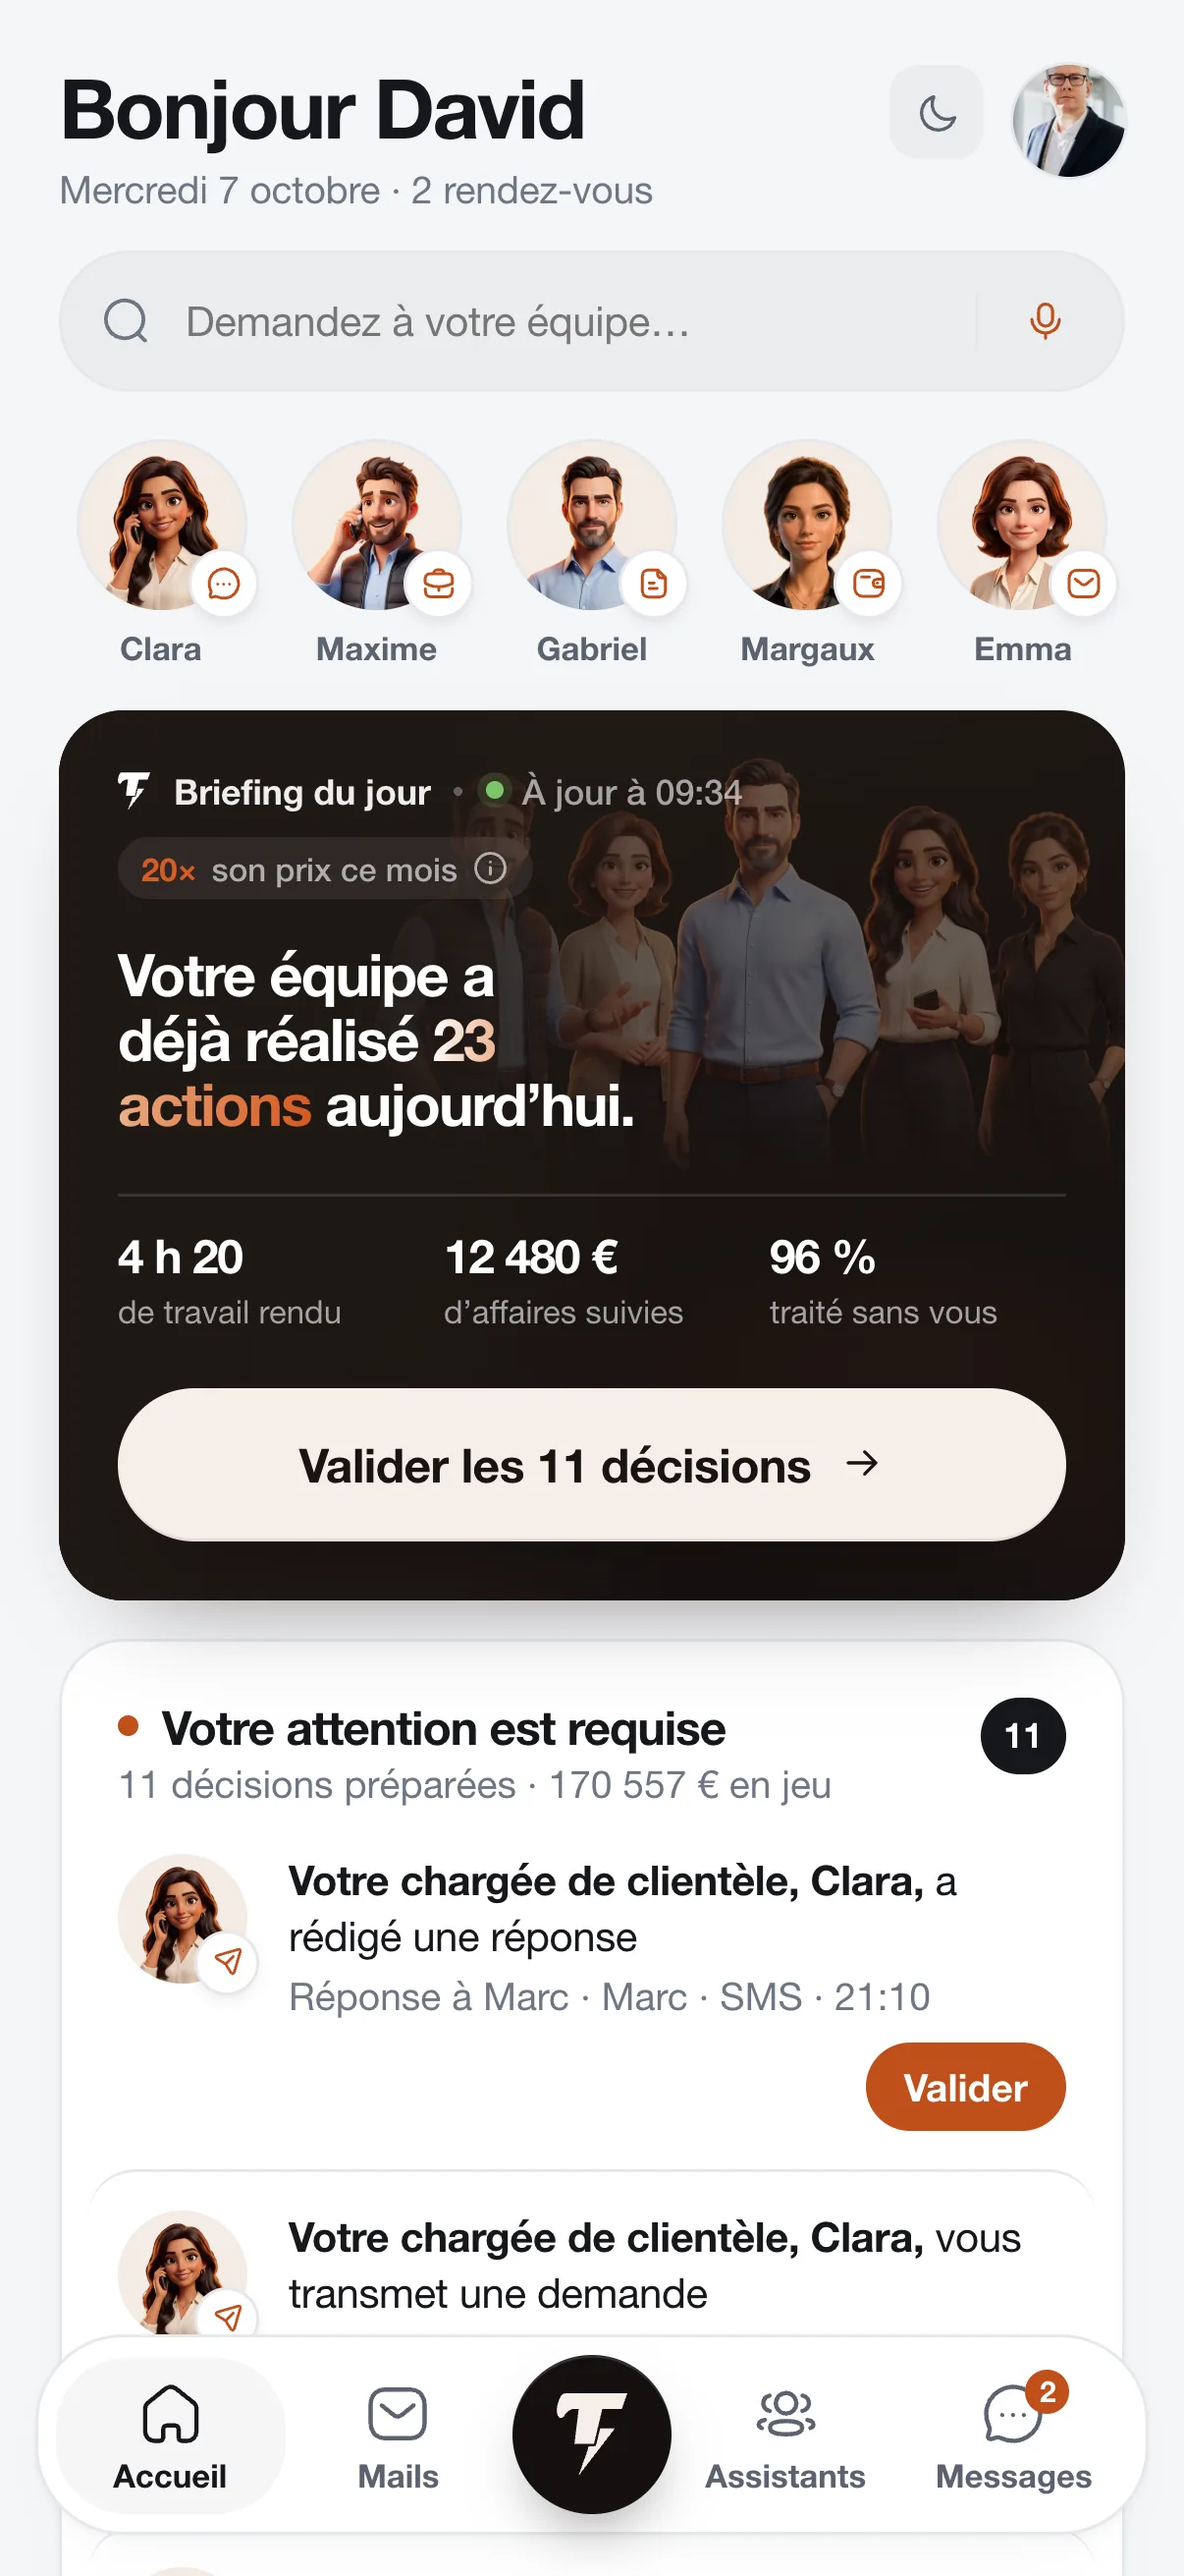
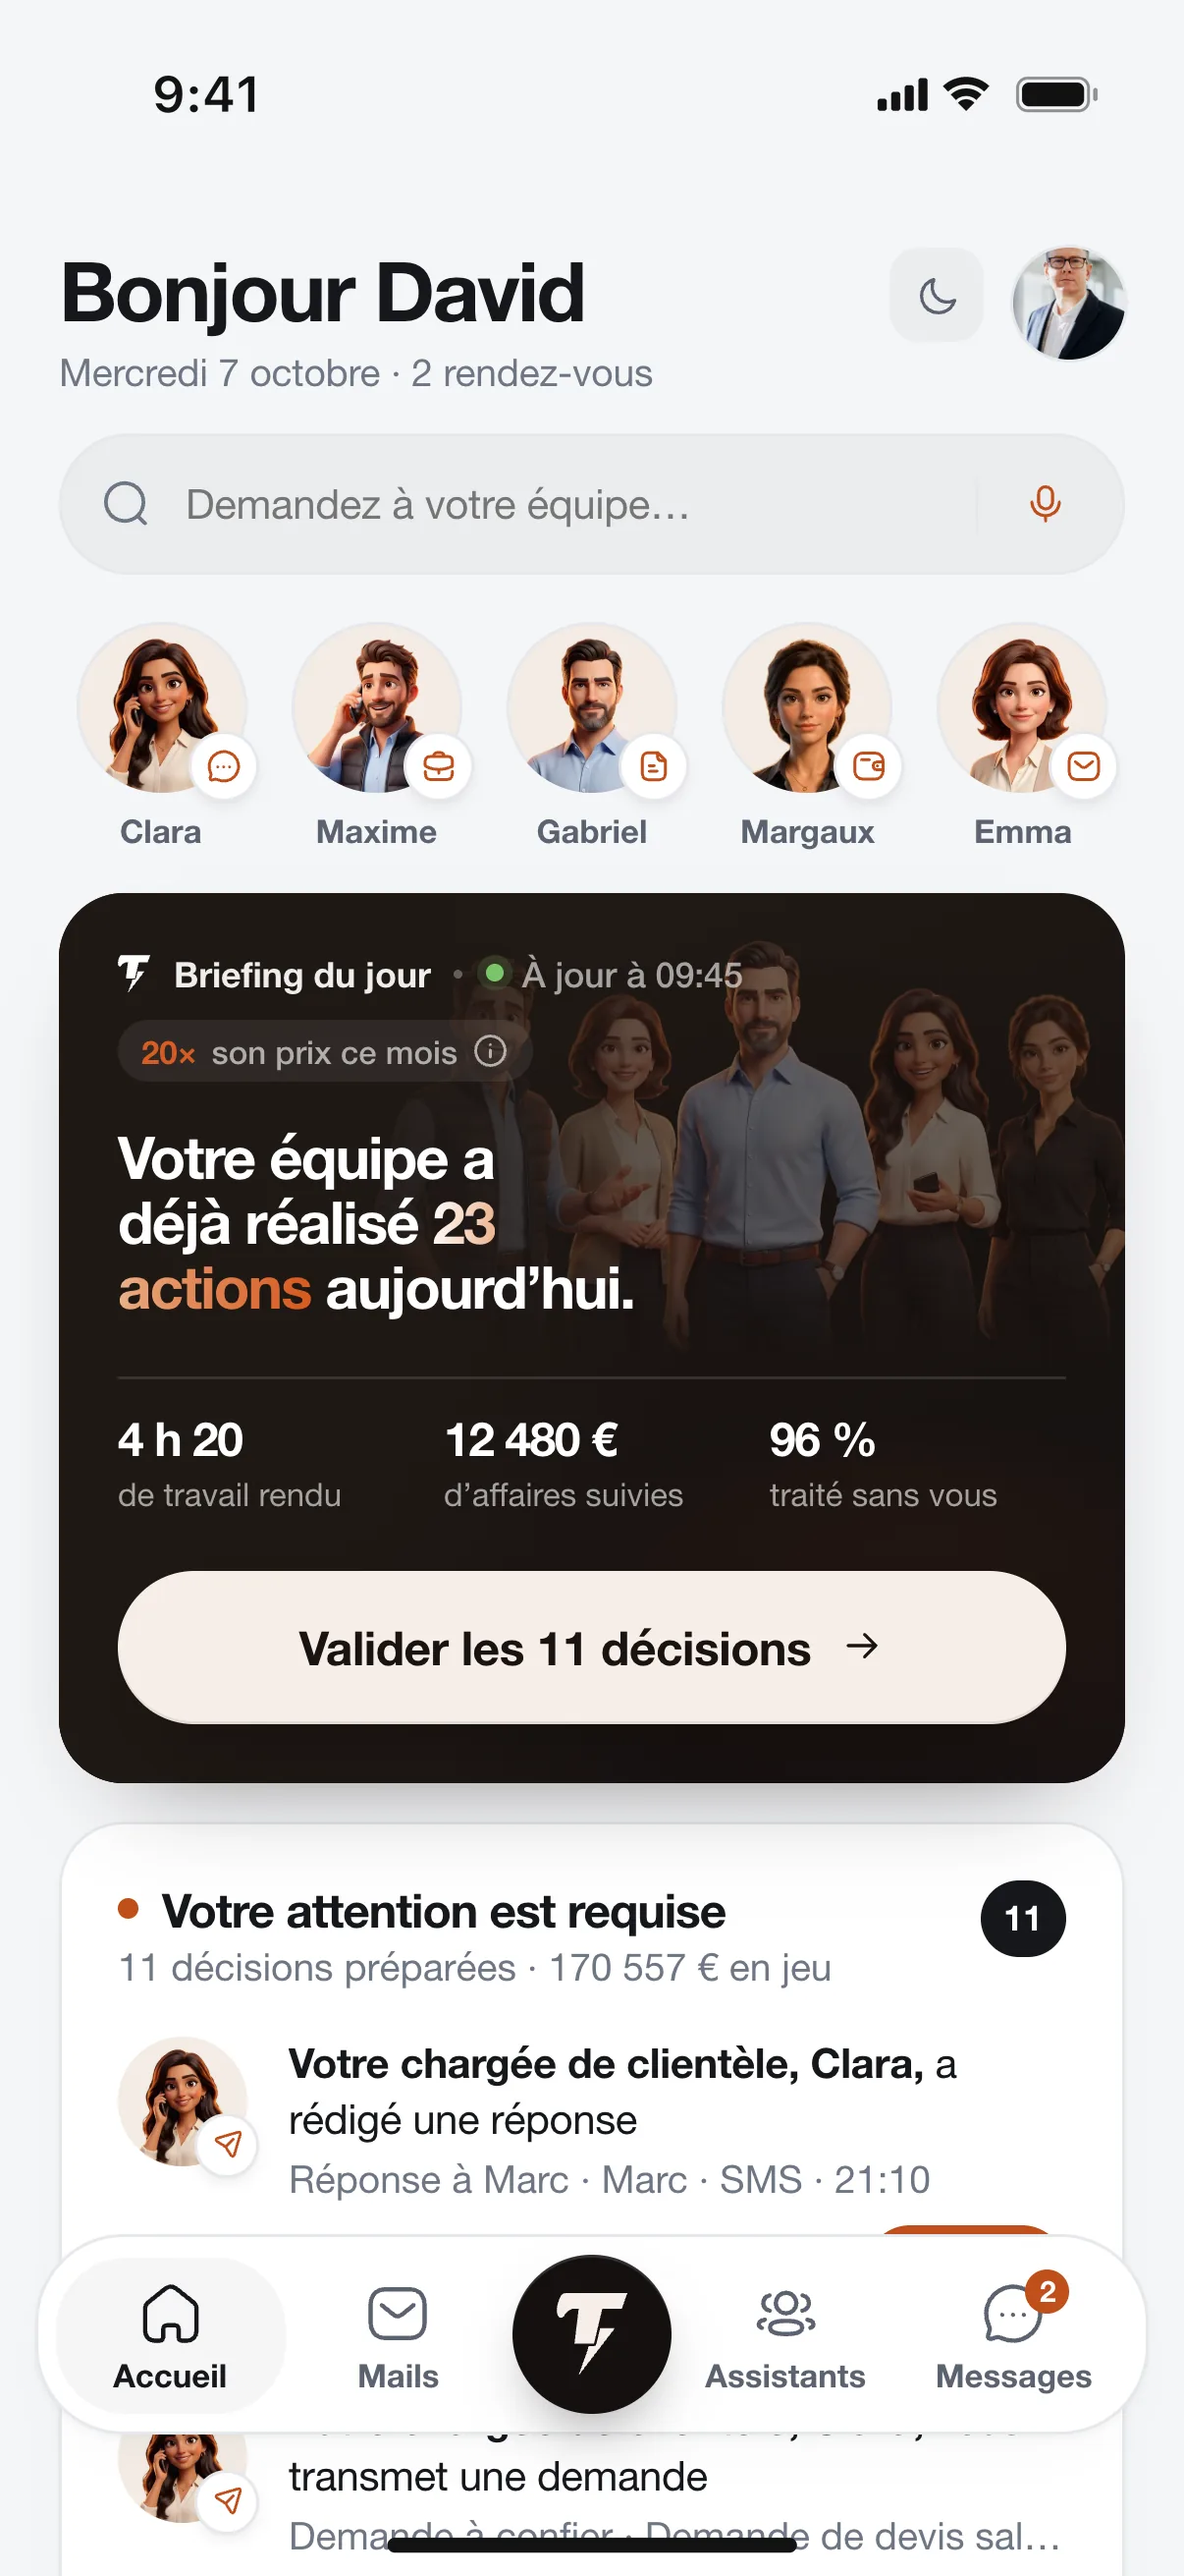
Mockup iPhone de l'accueil : l'écran passe sous le cadre
La Dynamic Island et le bord noir recouvrent l'écran comme sur un vrai
téléphone. Capture refaite avec les zones sûres d'un iPhone 16 Pro,
barre d'état iOS et indicateur d'accueil. Ombre portée sur l'ensemble.

diff --git a/index.html b/index.html
@@ -2849,8 +2849,15 @@ html[data-theme="light"] .t-feat .fx-arrow{background:#fff;box-shadow:0 1px 2px 
 .hd-scr>img{position:absolute;inset:0;width:100%;height:100%;display:block}
 .hd-mac .hd-scr{left:11.689%;top:11.741%;width:76.623%;height:76.533%;
   border-radius:0.66%/1.02%}
-.hd-iph .hd-scr{left:7.255%;top:3.544%;width:85.775%;height:92.911%;
+.hd-iph .hd-scr{left:7.143%;top:3.47%;width:86.071%;height:93.06%;
   border-radius:13.27%/6.1%}
+/* L'écran de l'iPhone passe SOUS le cadre : la Dynamic Island et le bord
+   noir le recouvrent, comme sur un vrai téléphone. Il déborde d'1 px sous
+   le bord pour ne jamais laisser de liseré. L'ombre portée passe sur
+   l'ensemble : sur le cadre seul, elle tombait dans l'ouverture et
+   assombrissait le haut de l'écran. */
+.hd-iph{filter:drop-shadow(0 30px 50px oklch(0.17 0.008 30/0.45))}
+.hd-iph>.hd-frame{position:relative;z-index:1;pointer-events:none;filter:none}
 @media (max-width:640px){ .hd-iph{bottom:-0.5rem;right:0.5rem;width:30%} }
 </style><style id="joints-css">
 /* ── Les raccords entre sections ─────────────────────────────────────────
